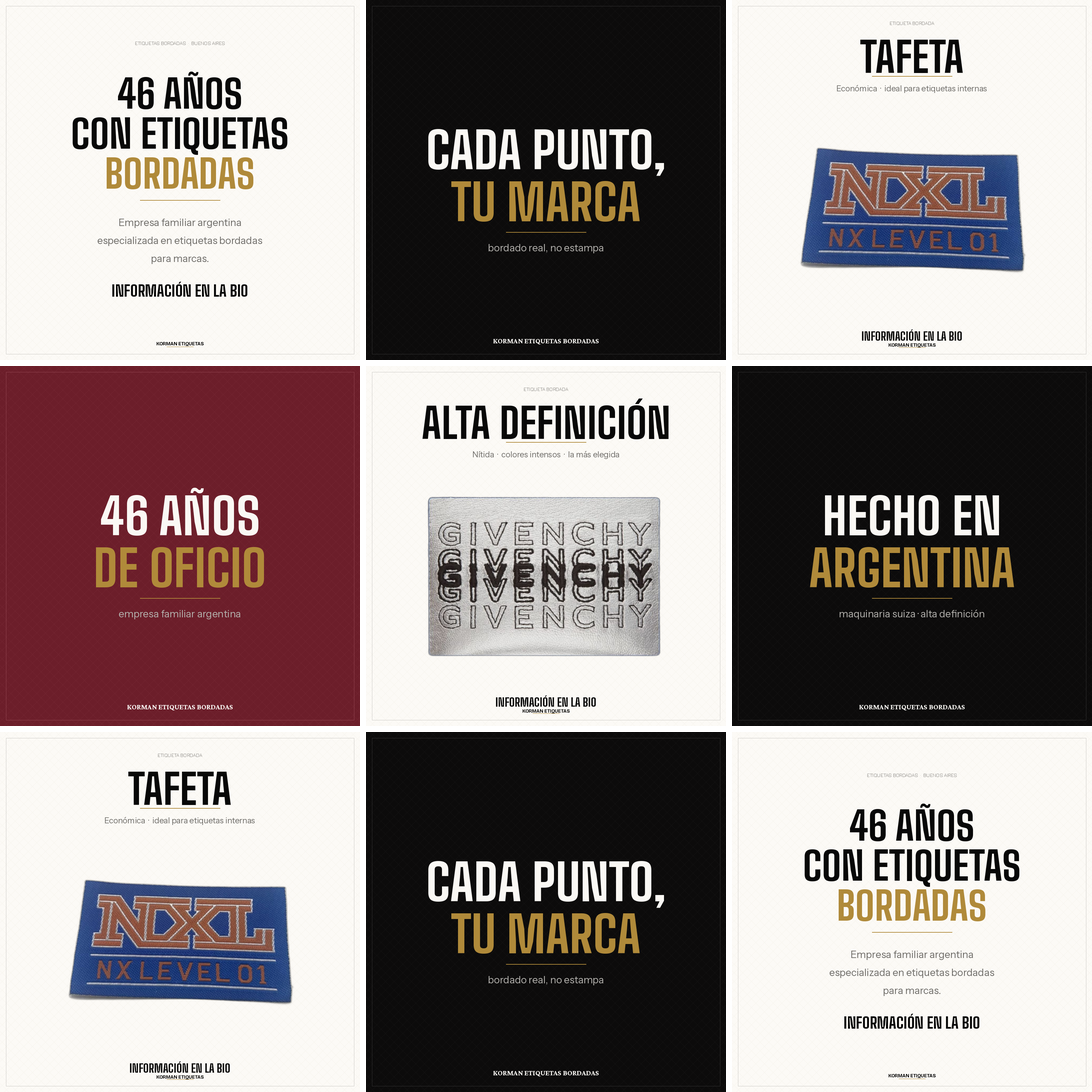
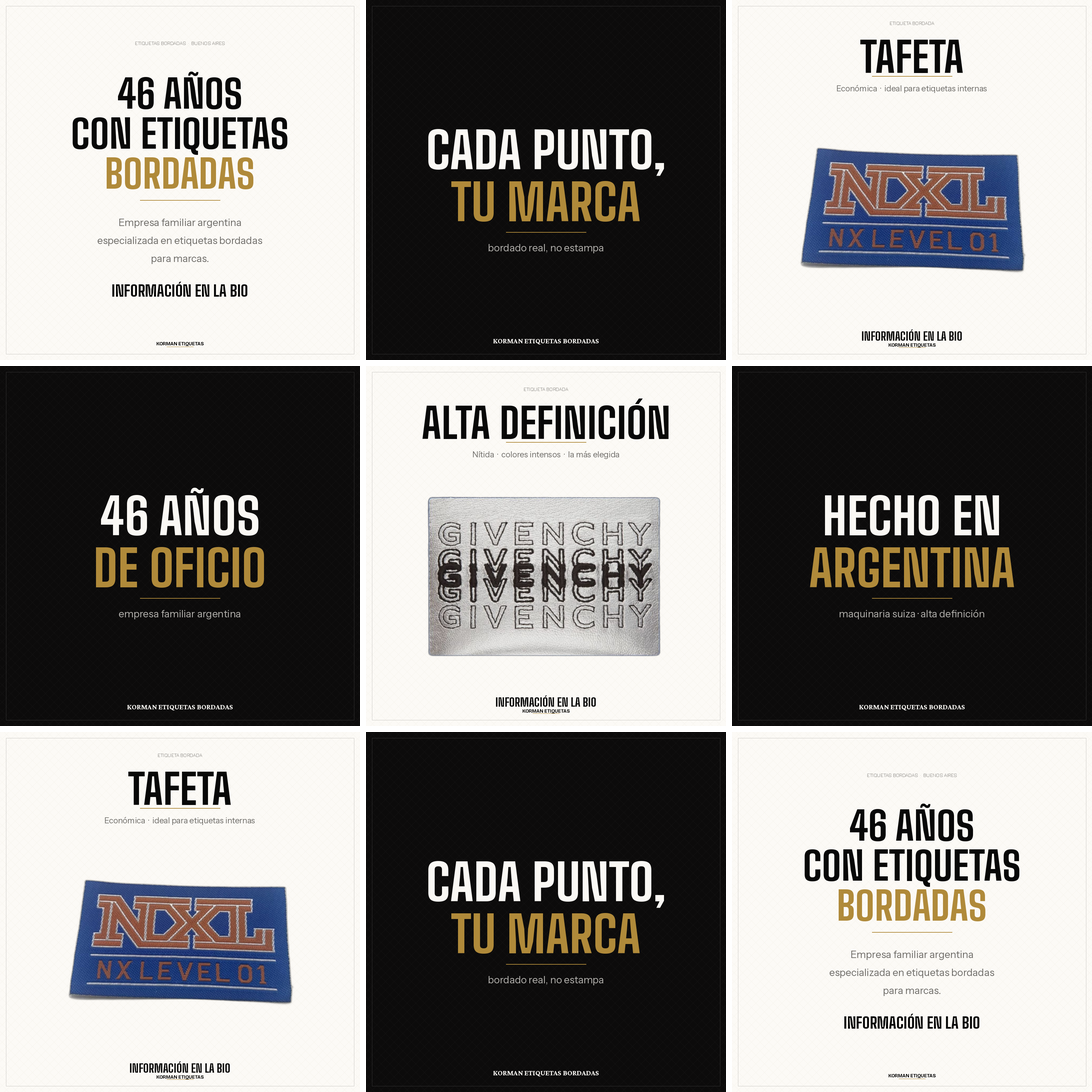
Mockup grilla: post 46 anios en negro en vez de bordo
Claude-Session: https://claude.ai/code/session_017RDuaEkxS43SZ1xs4UNenw

Changed region(s): [[0.0, 0.3114, 0.3425, 0.685]]

diff --git a/generate_grid_mockup.py b/generate_grid_mockup.py
@@ -58,7 +58,7 @@ def post_oscuro(filename, bg, l1, l2, sub):
 
 # 3 posts oscuros de acento
 post_oscuro("o1-cada-punto.png", BLACK, "CADA PUNTO,", "TU MARCA", "bordado real, no estampa")
-post_oscuro("o2-46-anios.png",   BORDO, "46 AÑOS", "DE OFICIO", "empresa familiar argentina")
+post_oscuro("o2-46-anios.png",   BLACK, "46 AÑOS", "DE OFICIO", "empresa familiar argentina")
 post_oscuro("o3-argentina.png",  BLACK, "HECHO EN", "ARGENTINA", "maquinaria suiza · alta definición")
 
 # ── COMPONER GRILLA 3x3 ─────────────────────────────────────────────
